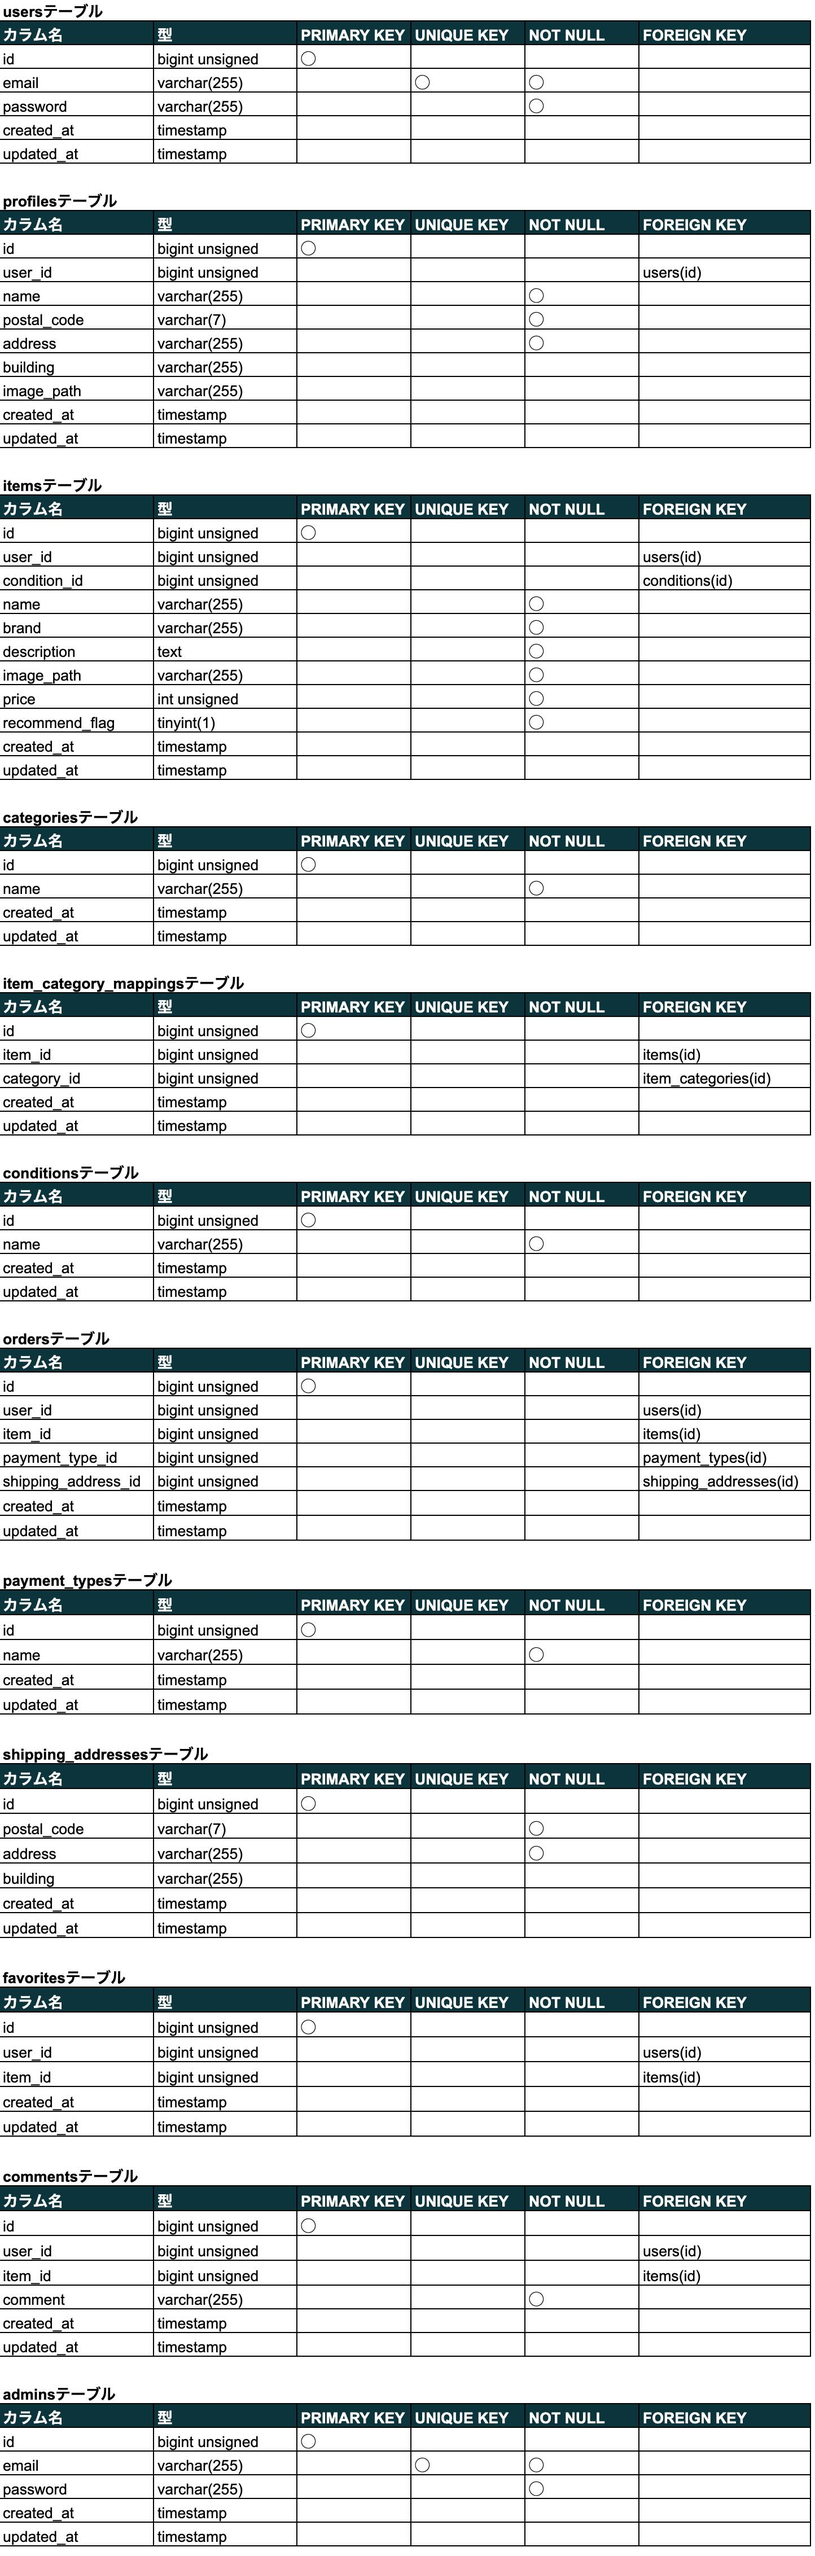
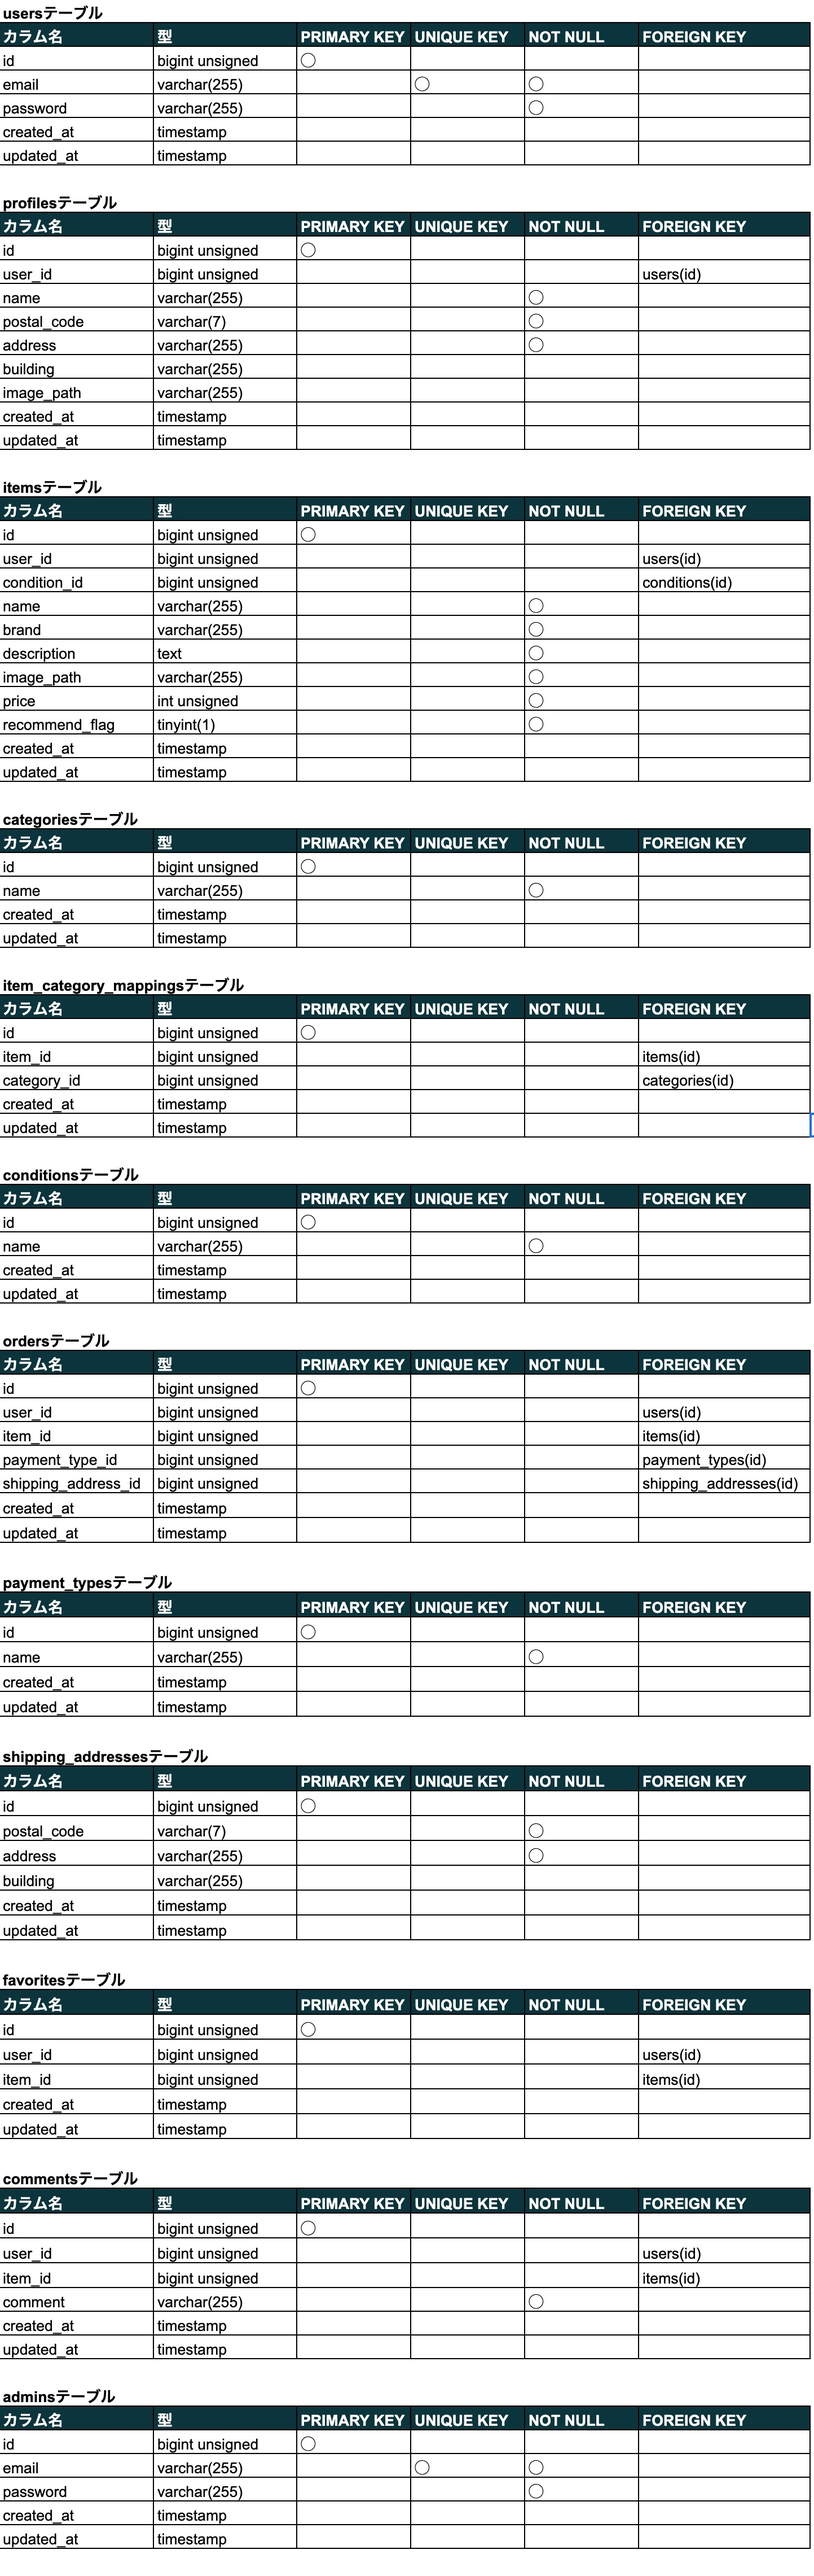
READMEの修正、テーブル仕様書画像ファイルの差し替え

diff --git a/README.md b/README.md
@@ -11,8 +11,8 @@ coachtechブランドのアイテムを出品するため
 - 管理者用ページ http://localhost/admin/index
 
 ### 本番環境
-- ユーザー用ページ http://43.207.115.202/：：：未作成
-- 管理者用ページ http://43.207.115.202/admin/index：：：未作成
+- ユーザー用ページ http://13.113.217.56
+- 管理者用ページ http://13.113.217.56/admin/index
 
 ### 動作確認用のアカウント
 確認用のアカウントを用意していますので、下記のアカウントを使用してログインしてください。  
@@ -57,7 +57,7 @@ coachtechブランドのアイテムを出品するため
  4. .env.exampleファイルから.envを作成し、環境変数を変更  
 DB_CONNECTIONからDB_PASSWORD、MAIL_MAILERからMAIL_FROM_NAMEの項目を修正  
 STRIPE_KEYとSTRIPE_SECRETの項目を追加  
-IMAGE_DIRECTORYの項目を以下のように追加  
+ストレージ保存先の設定として、以下の項目を追加  
 DEV_IMAGE_DIRECTORY=development/image  
 PROD_IMAGE_DIRECTORY=production/image  
  5. ```php artisan key:generate```
@@ -66,13 +66,16 @@ PROD_IMAGE_DIRECTORY=production/image
  7. ```php artisan storage:link```
 
 ## 補足事項
-### 開発環境の構築について
+### 開発環境の構築
+出品した商品の画像の保存先にAmazonS3を設定しています。  
+使用にはAWSでの設定と.envファイルの編集が必要です。  
+
 仮想SMTPサーバーとしてMailtrapの使用を想定しています。  
 Mailtrapを使用する場合はサービスの登録と.envファイルの編集が必要です。
 
 決済機能としてstripeを設定しています。  
 使用にはサービスの登録と.envファイルの記述が必要です。  
 
-### テストの実行について
+### テストの実行
 ```php artisan test --testsuite Feature```でPHPUnitによるテストが可能です。  
 実行にはテスト用データベースの設定が必要です。
